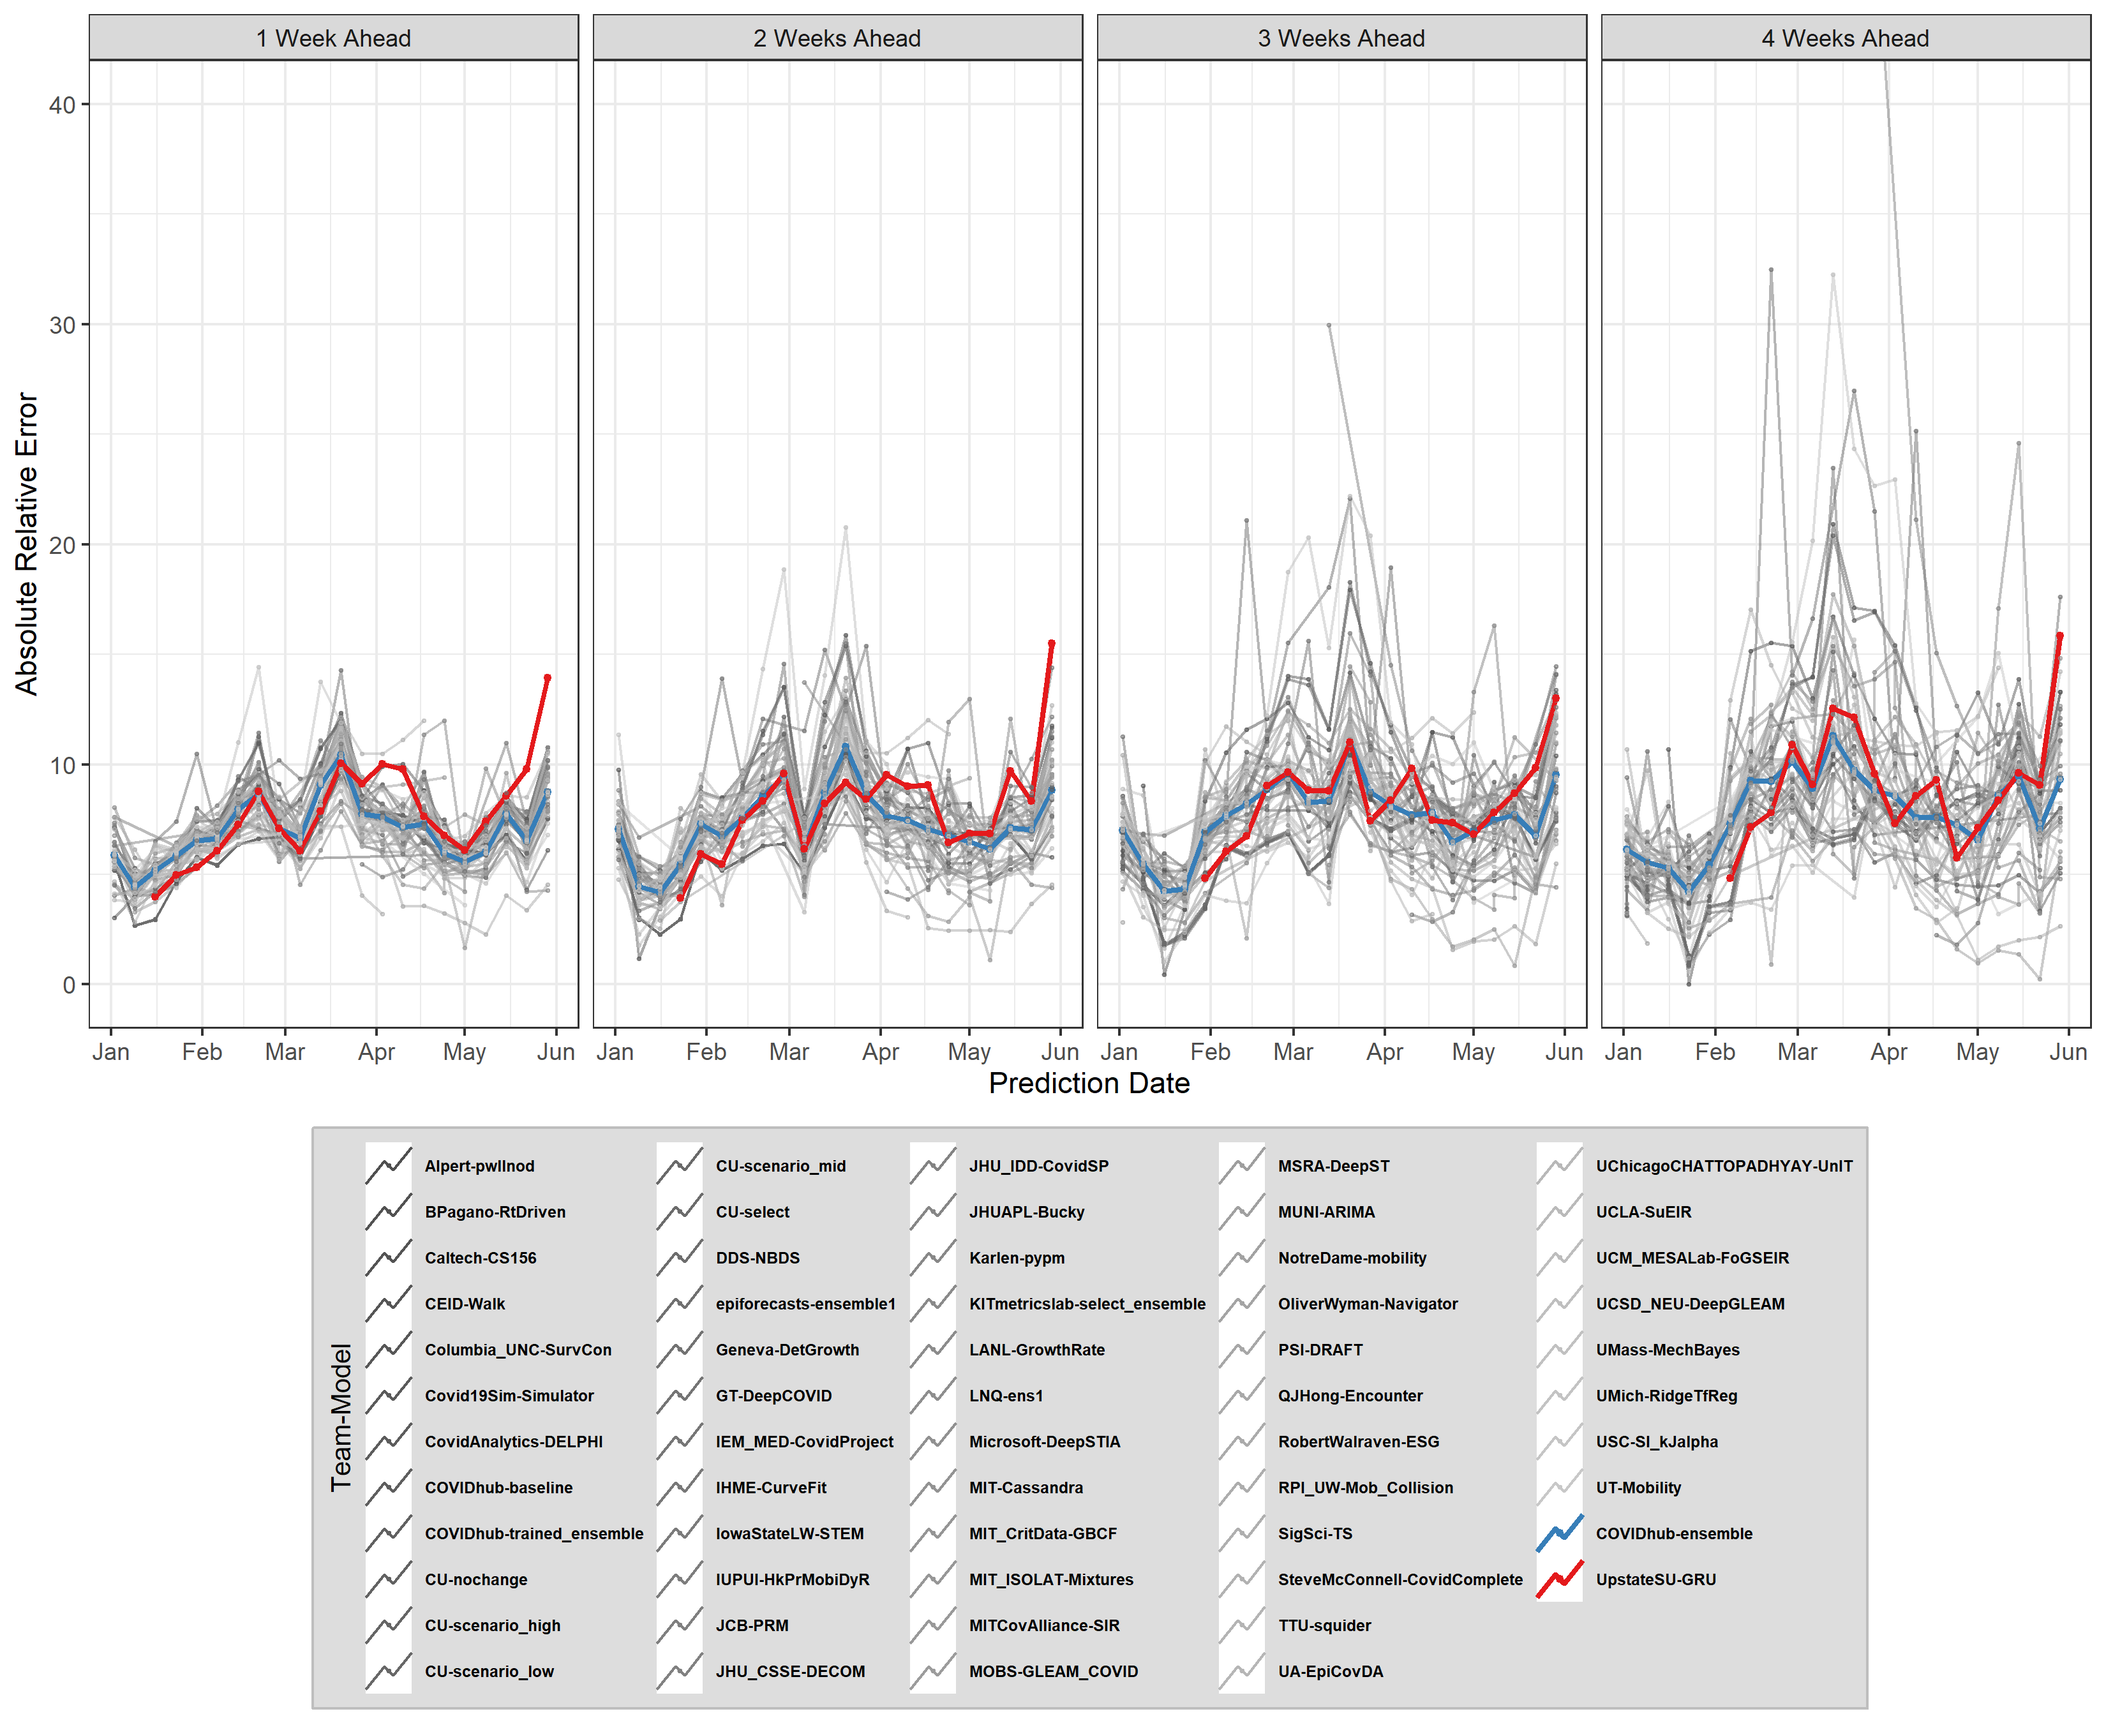
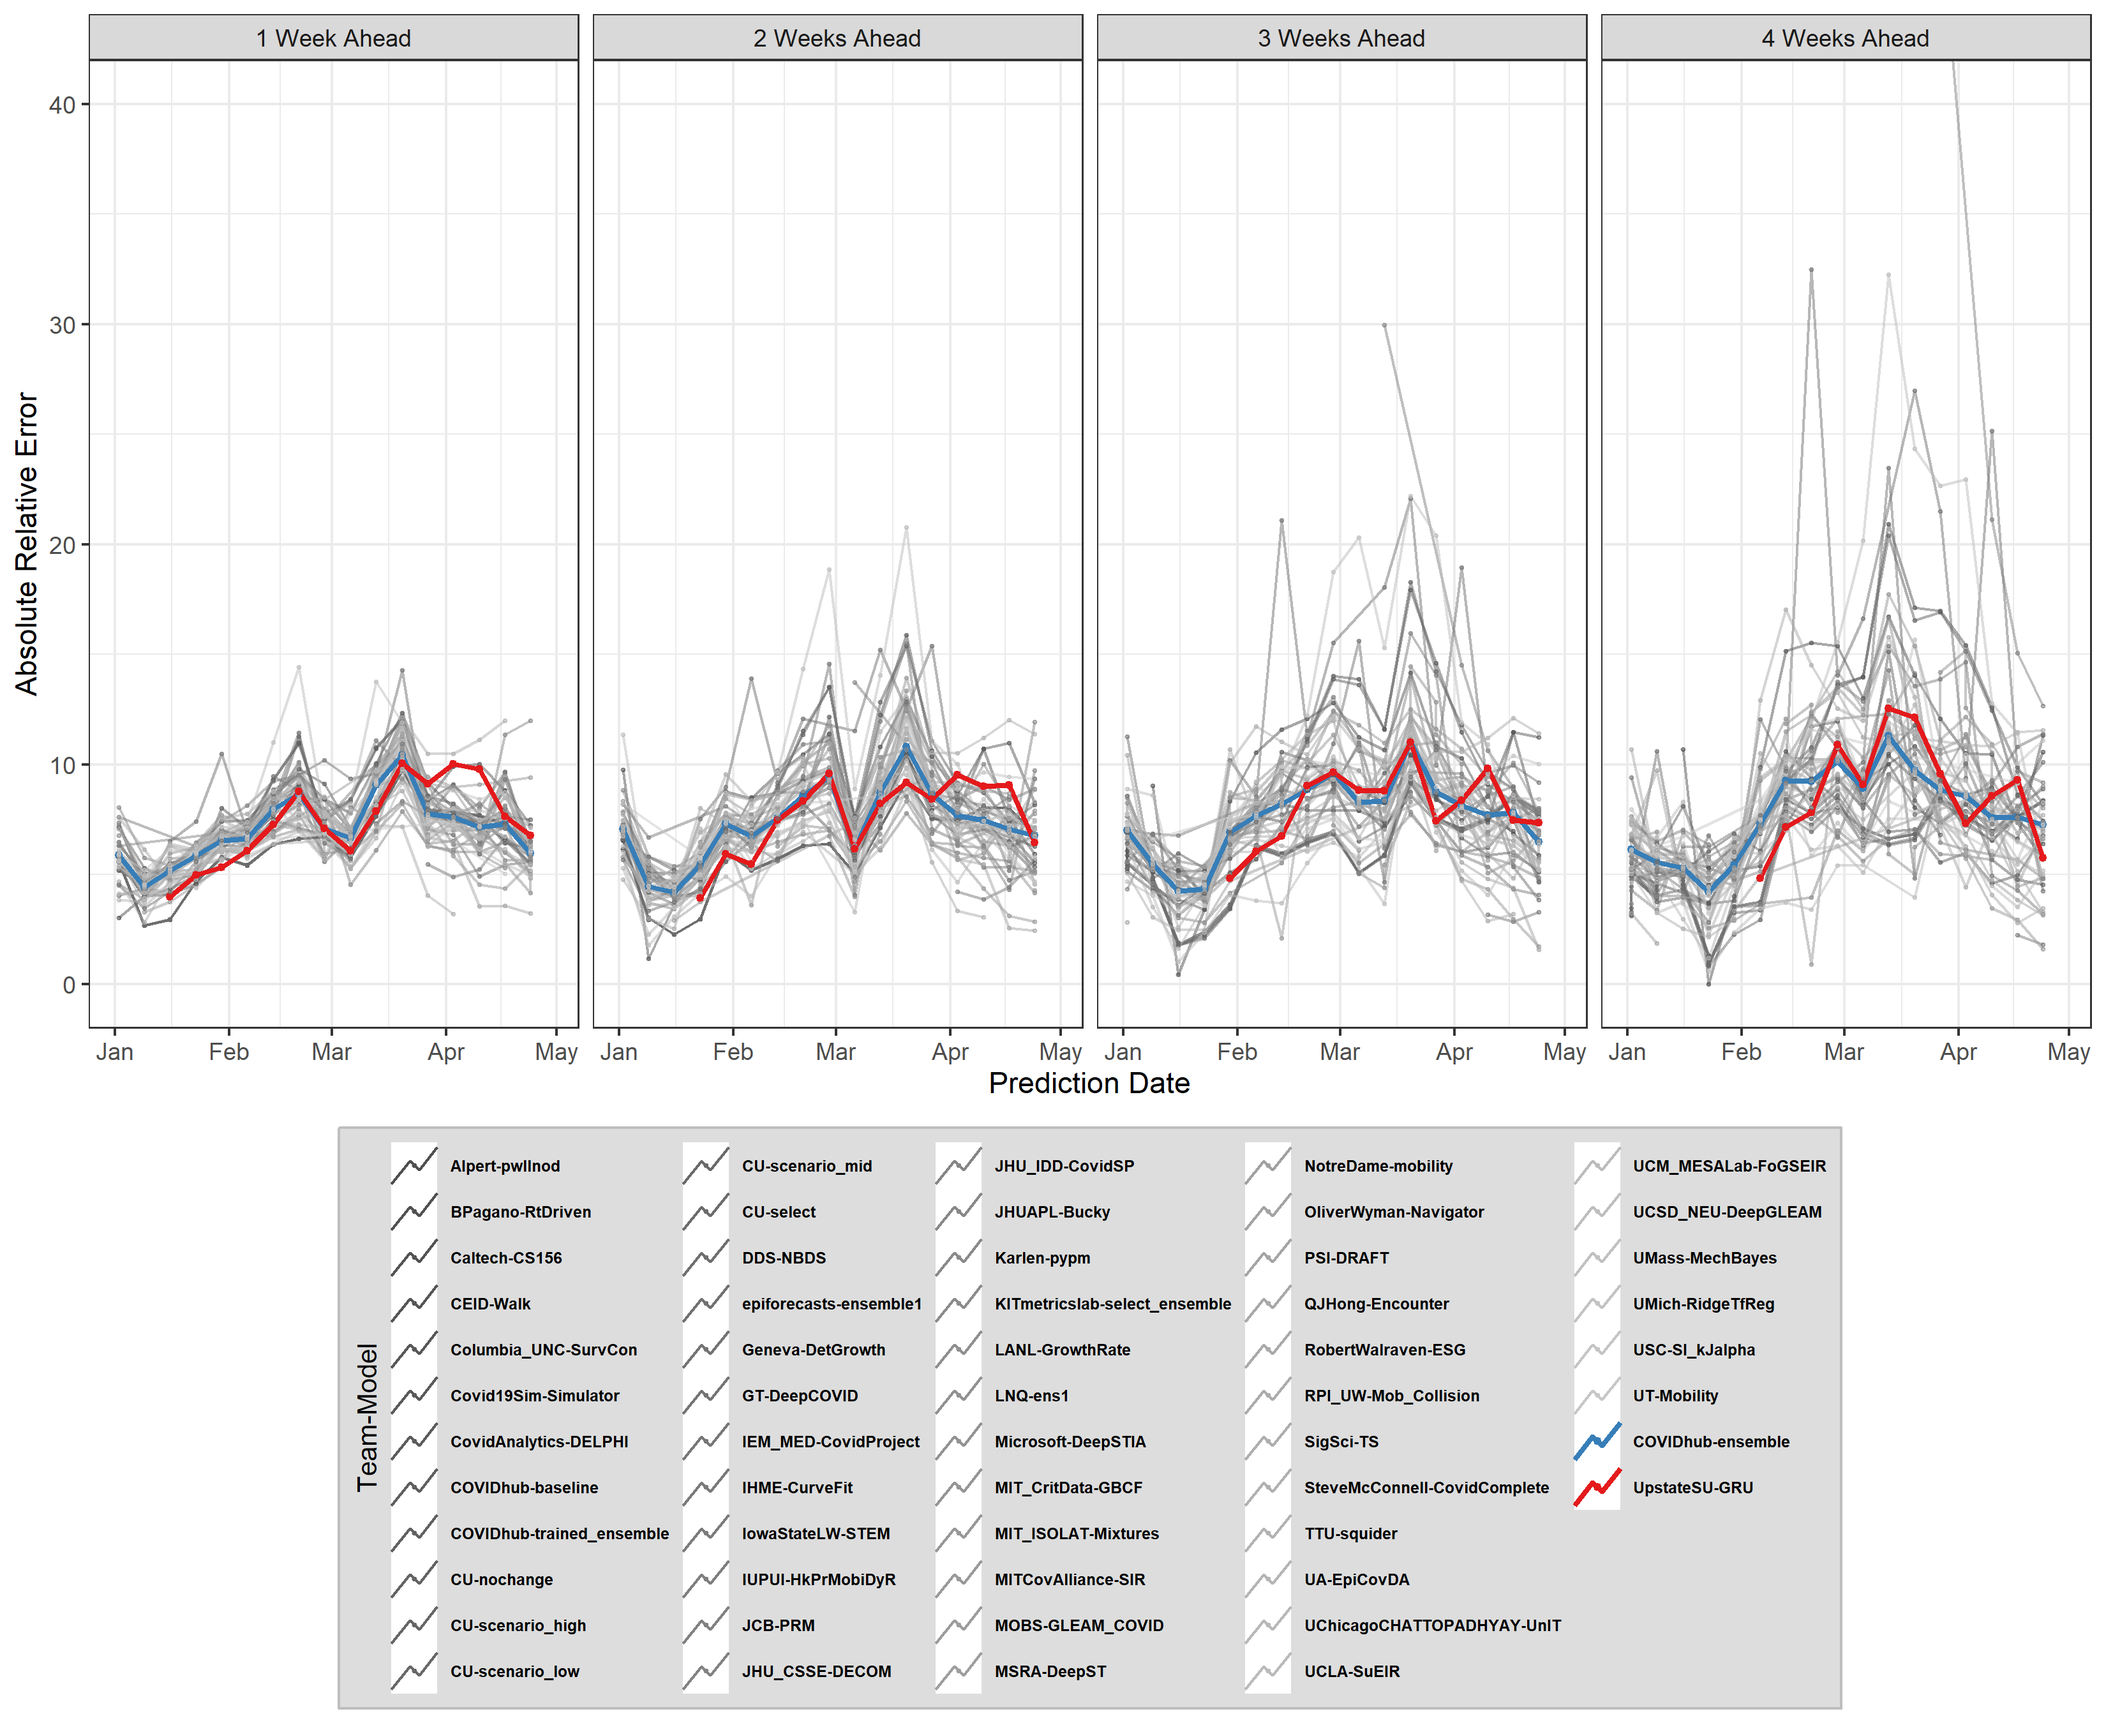
new trellis

diff --git a/README.md b/README.md
@@ -5,7 +5,7 @@ COVID-19 Forecast from SUNY Upstate Medical University and Syracuse University T
 Methods: National and county-level COVID-19 forecast using recurrent neural network seq2seq model with the Gated recurrent units (GRU)
 
 
-### Historical Performance between January 1st, 2021 & May 31st, 2021
+### Historical Performance between January 1st, 2021 & May 1st, 2021
 
 ##### Prediction of incident cases
 

diff --git a/docs/index.md b/docs/index.md
@@ -4,7 +4,7 @@ layout: default
 
 National and county-level COVID-19 forecast using recurrent neural network seq2seq model with the Gated recurrent units (GRU)
 
-### Historical Performance between January 1st, 2021 & May 31st, 2021
+### Historical Performance between January 1st, 2021 & May 1st, 2021
 
 ##### Prediction of incident cases
 
